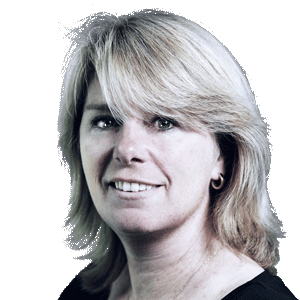
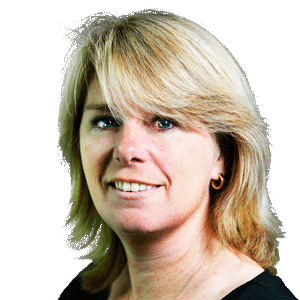
New profile photos and updated Our People page

diff --git a/wp-content/themes/fipradotcom/style.css b/wp-content/themes/fipradotcom/style.css
@@ -2131,7 +2131,7 @@ ul.team-member-expertise {
         height: 330px; } }
     @media screen and (min-width: 1400px) {
       .people-group-container .person {
-        width: 16.66667%;
+        width: 16%;
         height: 310px; } }
     .people-group-container .person.full-width {
       width: 100%;
@@ -4387,7 +4387,10 @@ embed, iframe, object {
     @media screen and (min-width: 481px) {
       .full-width-block-container.profile .full-width-block-content-container .full-width-block-content {
         text-align: left;
-        padding-right: 220px; } }
+        padding-left: 200px; } }
+    @media screen and (min-width: 801px) {
+      .full-width-block-container.profile .full-width-block-content-container .full-width-block-content {
+        padding-left: 250px; } }
     .full-width-block-container.profile .full-width-block-content-container .full-width-block-content h4 {
       color: #bfc5d2 !important; }
     .full-width-block-container.profile .full-width-block-content-container .full-width-block-content img {
@@ -4400,14 +4403,14 @@ embed, iframe, object {
           display: block;
           position: absolute;
           bottom: 0;
-          right: 20px;
-          height: 200px;
+          left: 20px;
+          height: 150px;
           top: 50%;
-          margin-top: -100px; } }
+          margin-top: -75px; } }
       @media screen and (min-width: 801px) {
         .full-width-block-container.profile .full-width-block-content-container .full-width-block-content img {
-          margin-top: -125px;
-          height: 250px; } }
+          margin-top: -100px;
+          height: 200px; } }
 
 .profile-content-area p.lead {
   font-size: 18px;

diff --git a/wp-content/themes/fipradotcom/sass/pages/_profile.scss b/wp-content/themes/fipradotcom/sass/pages/_profile.scss
@@ -13,15 +13,16 @@
 
       .full-width-block-content {
         position:relative;
-        @include media($media__small) { text-align:left; padding-right:220px; }
+        @include media($media__small) { text-align:left; padding-left:200px; }
+        @include media($media__medium) { padding-left:250px; }
         h4 { color: lighten($color__fipra-blue-gray, 35%) !important; }
         img {
           display:none;
           border-radius: 50%;
           background-color: $color__fipra-mid-gray;
           border:10px solid $color__fipra-mid-gray;
-          @include media($media__small) { display:block; position:absolute; bottom:0; right:20px; height:200px; top:50%; margin-top:-100px; }
-          @include media($media__medium) { margin-top:-125px; height:250px; }
+          @include media($media__small) { display:block; position:absolute; bottom:0; left:20px; height:150px; top:50%; margin-top:-75px; }
+          @include media($media__medium) { margin-top:-100px; height:200px; }
         }
       }
 

diff --git a/wp-content/themes/fipradotcom/sass/layout/_people.scss b/wp-content/themes/fipradotcom/sass/layout/_people.scss
@@ -28,7 +28,7 @@
     @include media($media__medium-plus) { width:25%; height:300px; }
 
     @include media($media__large) { width:20%; height:330px; }
-    @include media($media__xlarge) { width:16.66666666666667%; height:310px; }
+    @include media($media__xlarge) { width:16%; height:310px; }
 
     &.full-width { width:100%; border:0; }
 

diff --git a/wp-content/themes/fipradotcom/page-our-people.php b/wp-content/themes/fipradotcom/page-our-people.php
@@ -243,11 +243,11 @@ get_header(); ?>
                                 <div class="person energy-and-environment country-3">
                                     <div class="person-profile-photo">
                                         <a href="/profile">
-                                            <img src="<?= get_template_directory_uri(); ?>/img/fipriots/headshot_test.png" alt=""/>
+                                            <img src="<?= get_template_directory_uri(); ?>/img/fipriots/alp_mehmet.png" alt=""/>
                                         </a>
                                     </div>
                                     <div class="person-details">
-                                        <h4 class="no-margin"><a href="#">Name Surname</a></h4>
+                                        <h4 class="no-margin"><a href="#">Alp Mehmet</a></h4>
                                         <h6>Country 3, Energy and Environment</h6>
                                         <div class="btn-container">
                                             <a href="/profile" class="btn">
@@ -280,11 +280,11 @@ get_header(); ?>
                                 <div class="person banking-and-financial-services country-2">
                                     <div class="person-profile-photo">
                                         <a href="/profile">
-                                            <img src="<?= get_template_directory_uri(); ?>/img/fipriots/headshot_test.png" alt=""/>
+                                            <img src="<?= get_template_directory_uri(); ?>/img/fipriots/laura_batchelor.png" alt=""/>
                                         </a>
                                     </div>
                                     <div class="person-details">
-                                        <h4 class="no-margin"><a href="#">Name Surname</a></h4>
+                                        <h4 class="no-margin"><a href="#">Laura Batchelor</a></h4>
                                         <h6>Country 2, Banking and Financial Services</h6>
                                         <div class="btn-container">
                                             <a href="/profile" class="btn">
